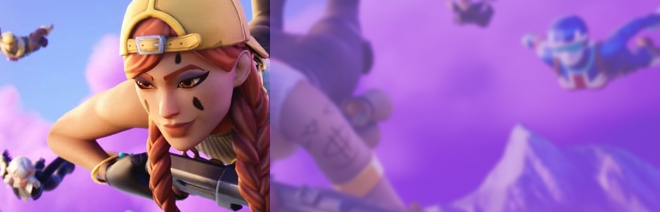
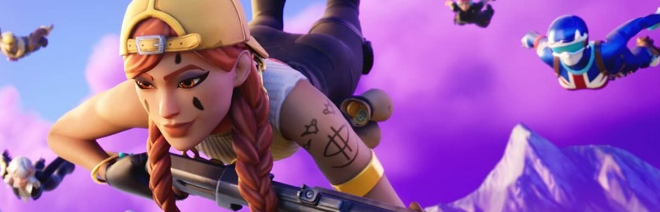
index media changes

diff --git a/css/style.css b/css/style.css
@@ -1778,6 +1778,7 @@ a {
 .intro__info {
 	max-width: 660px;
 	width: 100%;
+	margin-right: 20px;
 }
 
 .intro__info-title {
@@ -1799,18 +1800,6 @@ a {
 	position: relative;
 }
 
-.intro__info-item::before{
-	content: '';
-	background-image: url('../images/index/slider-blur2.png');
-	background-repeat: no-repeat;
-	background-size: cover;
-	width: 59%;
-	height: 100%;
-	position: absolute;
-	right: 0;
-}
-
-
 .intro__info-img {
 	max-height: 212px;
 	width: 100%;
@@ -1820,7 +1809,7 @@ a {
 .intro__info-name {
 	color: #fff;
 	font-weight: 800;
-	font-size: 34px;
+	font-size: 30px;
 	position: absolute;
 	right: 15px;
 	bottom: 35px;
@@ -1881,7 +1870,7 @@ a {
 .intro__giveaway-info {
 	font-weight: 500;
 	font-size: 26px;
-	padding-left: 76px;
+	padding-left: 45px;
 	position: relative;
 	text-transform: uppercase;
 }
@@ -1903,12 +1892,12 @@ a {
 
 .intro__giveaway-info::before {
 	content: '';
-	background-image: url("../images/icons/circle.svg");
+	background-image: url("../images/icons/circle-mob.svg");
 	background-repeat: no-repeat;
 	width: 60px;
 	height: 60px;
 	position: absolute;
-	top: -17px;
+	top: 0;
 	left: 0;
 }
 
@@ -1963,7 +1952,7 @@ a {
 }
 
 .intro__giveaway-img {
-	max-width: 395px;
+	max-width: 350px;
 	width: 100%;
 	max-height: 320px;
 	height: 100%;
@@ -2466,22 +2455,6 @@ a {
 
 @media (max-width: 1600px) {
 
-	.intro__inner {
-		-webkit-box-orient: vertical;
-		-webkit-box-direction: normal;
-		-ms-flex-direction: column;
-		flex-direction: column;
-	}
-
-	.intro__info {
-		margin-bottom: 40px;
-	}
-
-
-	.intro__giveaway {
-		margin-left: auto;
-	}
-
 	.catalog__nav {
 		display: none;
 	}
@@ -2491,41 +2464,157 @@ a {
 	}
 }
 
+@media (max-width: 1430px) {
+
+	.intro__giveaway-time {
+		width: 200px;
+		font-size: 30px;
+		top: 100px;
+	}
+
+	.intro__giveaway-btn {
+		width: 250px;
+		padding: 9px 20px;
+		font-size: 22px;
+	}
+
+	.intro__giveaway-img {
+		max-width: 240px;
+		width: 100%;
+		max-height: 220px;
+		height: 100%;
+		position: absolute;
+		bottom: 0;
+		right: 0;
+	}
+}
+
+
+@media (max-width: 1290px) {
+	.intro {
+		padding-top: 30px;
+	}
+
+	.intro__inner {
+		align-items: flex-end;
+	}
+
+	.intro__giveaway {
+		max-width: 480px;
+		height: 410px;
+		padding: 12px 5px 0 15px;
+	}
+
+	.intro__giveaway-title {
+		font-size: 22px;
+	}
+
+	.intro__giveaway-info {
+		font-size: 20px;
+		padding-left: 45px;
+	}
+
+	.intro__giveaway-info::before {
+		top: -5px;
+	}
+
+	.intro__giveaway-time {
+		position: initial;
+		margin-top: 28px;
+		width: 250px;
+	}
+
+	.intro__giveaway-info+p {
+		margin-top: 30px;
+	}
+
+	.intro__giveaway-info span {
+		margin-top: 15px;
+		font-size: 24px;
+	}
+
+	.intro__giveaway-img {
+		max-width: 170px;
+		max-height: 160px;
+	}
+}
+
+@media (max-width: 1170px) {
+	.intro__info {
+		max-width: 520px;
+	}
+
+	.intro__info-img {
+		height: 165px;
+	}
+
+	.intro__info-slide {
+		height: 165px;
+	}
+
+	.intro__giveaway-btn {
+		width: 200px;
+		padding: 9px 20px;
+		font-size: 18px;
+	}
+
+	.intro__giveaway-time {
+		width: 200px;
+		font-size: 22px;
+		display: flex;
+		align-items: center;
+		height: 40px;
+	}
+
+	.intro__giveaway-time .hours,
+	.intro__giveaway-time .minutes,
+	.intro__giveaway-time .seconds {
+		width: 30px;
+		font-size: 24px;
+	}
+
+	.intro__info-name {
+		background: rgba(35, 34, 34, 0.3);
+		width: fit-content;
+		padding: 10px;
+	}
+}
+
 @media (max-width: 992px) {
 	.intro {
 		background-image: url("../images/index/decor-polygon-mob.svg");
 	}
 
-	.intro__giveaway {
-		height: 450px;
+	.intro__inner {
+		flex-direction: column;
+		align-items: center;
+		justify-content: center;
 	}
 
-	.intro__giveaway-title {
-		font-size: 26px;
+	.intro__info {
+		margin-bottom: 25px;
+		margin-right: 0;
+		max-width: 100%;
+	}
+
+	.intro__info-slider {
+		width: 480px;
+		margin: 0 auto;
+	}
+
+	.intro__giveaway {
+		max-width: 100%;
 	}
 
 	.intro__giveaway-img {
-		/* display: none; */
-		width: 300px;
-		height: 300px;
-	}
-
-	.intro__giveaway-timer {
-		/* margin: 0 auto; */
+		max-width: 280px;
+		max-height: 260px;
 	}
 
 	.intro__giveaway-time {
-		width: 250px;
-		position: initial;
-		margin-top: 28px;
+		position: absolute;
+		top: 30px;
 	}
-
-	.intro__giveaway-btn {
-		width: 250px;
-		padding: 9px 10px;
-		font-size: 24px;
-	}
-
 
 }
 
@@ -2543,22 +2632,11 @@ a {
 	}
 
 	.intro__info-text {
-		margin-bottom: 0;
-	}
-
-	.intro__info {
-		margin-bottom: 30px;
-	}
-
-	.intro__info-slider {
-		display: none;
+		margin-bottom: 20px;
 	}
 
 	.intro__giveaway {
 		width: 100%;
-
-		/* margin: 0 auto; */
-		/* width: 400px; */
 		height: 365px;
 		border: 6px solid #A473E8;
 		padding: 12px 20px 0 12px;
@@ -2666,8 +2744,32 @@ a {
 		width: 230px;
 	}
 
+	.intro__giveaway-time {
+		position: inherit;
+	}
+
+	.intro__info-slider {
+		max-width: 100%;
+	}
+
+	.intro__info-slide {
+		max-width: 100%;
+		height: 150px;
+	}
+
+	.intro__info-name {
+		font-size: 20px;
+		bottom: 35px;
+		padding: 6px;
+  }
+
+	.intro__info-img {
+		height: 150px;
+		max-width: 100%;
+	}
+
 	.popular-offers__slide {
-		height: 180px;
+		height: 150px;
 	}
 
 	.popular-offers__pagination span {
@@ -2750,11 +2852,7 @@ a {
 
 @media (max-width: 450px) {
 	.intro {
-		padding-top: 30px;
-	}
-
-	.intro__info {
-		margin-bottom: 20px;
+		padding-top: 20px;
 	}
 
 	.intro__giveaway-img {
@@ -2770,11 +2868,8 @@ a {
 	}
 
 	.intro__giveaway {
-		/* max-width: 400px; */
-		/* width: 100%; */
 		max-height: 400px;
 		height: 100%;
-		/* padding: 12px 20px 20px 12px; */
 		padding: 12px 20px 0 12px;
 	}
 
@@ -2806,6 +2901,7 @@ a {
 		margin-bottom: 0;
 		font-size: 16px;
 	}
+	
 
 	.logo img {
 		width: 300px;

diff --git a/index.html b/index.html
@@ -72,6 +72,12 @@
 		</div>
 
 	</header>
+
+
+
+
+
+
 	<main id="scrollUp">
 		<section class="intro">
 			<div class="container">
